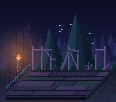
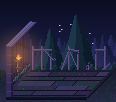
Balcony forest: left wall finish (top cap and cut end face with rings)
Claude-Session: https://claude.ai/code/session_01FPZSaKiVNU2zED737yZX4w

Changed region(s): [[0.0517, 0.2059, 0.3103, 0.9706]]

diff --git a/tools/render_balcony_forest.py b/tools/render_balcony_forest.py
@@ -135,6 +135,19 @@ def main():
                 if (int(d) * 3 + int(z) // 3) % 11 == 0: c0 = (20, 16, 38)
                 r_, g_, b_, a_ = c0 + (255,)
             px[X, Y] = (int(r_ * .9), int(g_ * .9), int(b_ * .95), 255)
+    # 왼쪽 벽 마감: 윗면 뚜껑(두께 6칸, 위에서 보이는 면)과 앞쪽 단면(둥치를 잘라 낸 면)
+    CAP, CAPH, CAPD = (78, 70, 118), (104, 94, 148), (40, 34, 66)
+    for d in range(0, int(D) + 1):
+        X = int(X0 + SK * d); yt = int(Y0 - SS * d - WH)
+        for dx in range(0, 7):
+            put(X + dx, yt, CAPH if dx < 2 else CAPD if dx > 5 else CAP)
+            if dx in (1, 3, 5): put(X + dx, yt - 1 + (dx // 3), CAP if dx != 3 else CAPH)          # 윗면 가장자리가 울퉁불퉁한 가지 자국
+    for X in range(int(X0), int(X0) + 7):                                    # 앞쪽 단면: 나이테가 보이는 잘린 면
+        for Y in range(int(Y0 - WH), int(Y0) + 1):
+            k = (X - int(X0)); c0 = (52, 44, 84) if k < 5 else (30, 26, 52)
+            if (Y - int(Y0 - WH)) % 9 == 0 and 0 < k < 6: c0 = (66, 58, 100)    # 나이테 선
+            put(X, Y, c0)
+    for dx in range(0, 7): put(int(X0) + dx, int(Y0 - WH) - 1, CAPH if dx < 5 else CAP)      # 단면 위 모서리 하이라이트
     # 가구: 부서진 나무 의자·탁자(오른쪽 끝, 의자가 앞)
     def put_sprite(name, x, d):
         s = lib[name]; img.alpha_composite(s, (int(X0 + x + SK * d - s.width / 2), int(Y0 - SS * d - s.height)))
